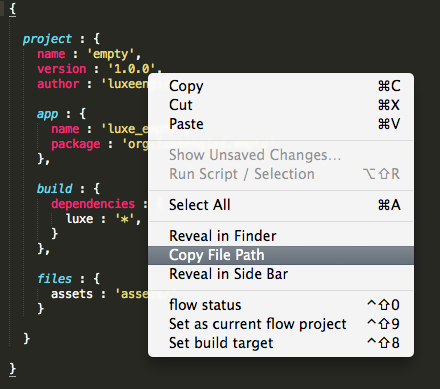
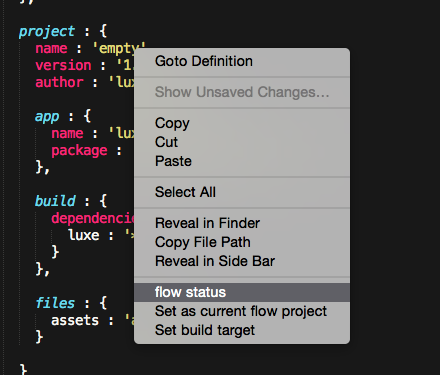
update docs and add info on plugins

diff --git a/guide/sublimetext.html b/guide/sublimetext.html
@@ -71,8 +71,8 @@
 <li>Make sure you have <a href="https://sublime.wbond.net/installation">package control</a></li>
 <li>Press <code>Ctrl/cmd + Shift + P</code> <code>Package Control : Add repository</code></li>
 <li>Do this twice, add <ul>
-<li><a href="https://github.com/underscorediscovery/sublime_haxe_completion">https://github.com/underscorediscovery/sublime_haxe_completion</a></li>
-<li><a href="https://github.com/underscorediscovery/sublime_flow">https://github.com/underscorediscovery/sublime_flow</a></li>
+<li><a href="https://github.com/snowkit/sublime_haxe">https://github.com/snowkit/sublime_haxe</a></li>
+<li><a href="https://github.com/snowkit/sublime_flow">https://github.com/snowkit/sublime_flow</a></li>
 </ul>
 </li>
 <li>Press <code>Ctrl/cmd + Shift + P</code> <code>Package Control : Install Package</code></li>
@@ -97,7 +97,7 @@
 <ul>
 <li>Right click <em>inside</em> the flow file, and choose “flow status” (<code>ctrl+shift+0</code>)</li>
 </ul>
-<p><img src="../images/plugins/1.png" alt=""></p>
+<p><img src="../images/plugins/sublime.png" alt=""></p>
 <p>The flow status window has some options:</p>
 <ul>
 <li>selecting the flow file will open the active project file</li>
@@ -112,9 +112,7 @@
 <p>To build, press <code>ctrl/cmd + B</code> or select Tools -&gt; Build. This will show the build output, which can be reopened with Tools -&gt; Build Results -&gt; Show Results.</p>
 <p>If you have errors, you can double click the error in the console, and it will jump to that line + file in the message. You can press F4 or Shift F4 to cycle errors as well.</p>
 <p><img src="../images/plugins/4.png" alt=""></p>
-<p><em>Take note that if you have the main, default Haxe plugin installed already, disable it using <code>Package Control : Disable Package</code>. 
-This one has similar features, but supports the flow build tool chain and reliable code completion. You can toggle between them at any time.
-This is a temporary state as this set of plugins were created to modularize the main plugin where possible.
+<p><em>Take note that if you have the main, default Haxe plugin installed already, you could potentially have them fighting over things. Package control lets you easily disable a plugin you aren’t using at the moment.
 </em></p>
 <p>&nbsp;
 &nbsp;</p>

diff --git a/index.html b/index.html
@@ -229,13 +229,19 @@ from a terminal (<a class="tooltip" data-tooltip="A terminal is a command line i
 <p>If target is not specified, it will use your current system i.e</p>
 <p><code>flow build</code> on a mac will result in <code>flow build mac --arch 64</code></p>
 <hr>
+<style> img {max-width:26em;} </style>
+
 <h2 id="editor-support">Editor support</h2>
 <p>Where possible, full code completion and building from the editor is supplied.</p>
-<p><a href="guide/sublimetext.html">Sublime Text</a> (mac/windows/linux) <br/><br/>
-<a href="guide/sublimetext.html"><img src="images/plugins/1.png" alt=""></a></p>
-<p><a href="guide/flashdevelop.html">FlashDevelop</a> (windows only)<br/><br/>
-template is at <a href="https://github.com/Chman/Snowkit-FD">snowkit-fd</a>, and here is a <a href="https://github.com/Chman/Snowkit-FD/blob/master/SnowkitTemplate.fdz?raw=true">Download link</a>   </p>
-<p><a href="guide/flashdevelop.html"><img src="images/plugins/5.png" alt=""></a></p>
+<h4 id="-sublime-text-guide-sublimetext-html-mac-windows-linux-"><a href="guide/sublimetext.html">Sublime Text</a> (mac/windows/linux)</h4>
+<p><a href="guide/sublimetext.html"><img src="images/plugins/sublime.png" alt=""></a></p>
+<hr>
+<h4 id="-atom-https-atom-io-packages-flow-mac-windows-linux-"><a href="https://atom.io/packages/flow">Atom</a> (mac/windows/linux)</h4>
+<p><a href="https://atom.io/packages/flow"><img src="images/plugins/atom.png" alt=""></a></p>
+<hr>
+<h4 id="-flashdevelop-guide-flashdevelop-html-windows-only-"><a href="guide/flashdevelop.html">FlashDevelop</a> (windows only)</h4>
+<p>template is at <a href="https://github.com/Chman/Snowkit-FD">snowkit-fd</a>, and here is a <a href="https://github.com/Chman/Snowkit-FD/blob/master/SnowkitTemplate.fdz?raw=true">Download link</a>   </p>
+<p><a href="guide/flashdevelop.html"><img src="images/plugins/fd.png" alt=""></a></p>
 <hr>
 <h3 id="features">Features</h3>
 <ul>
